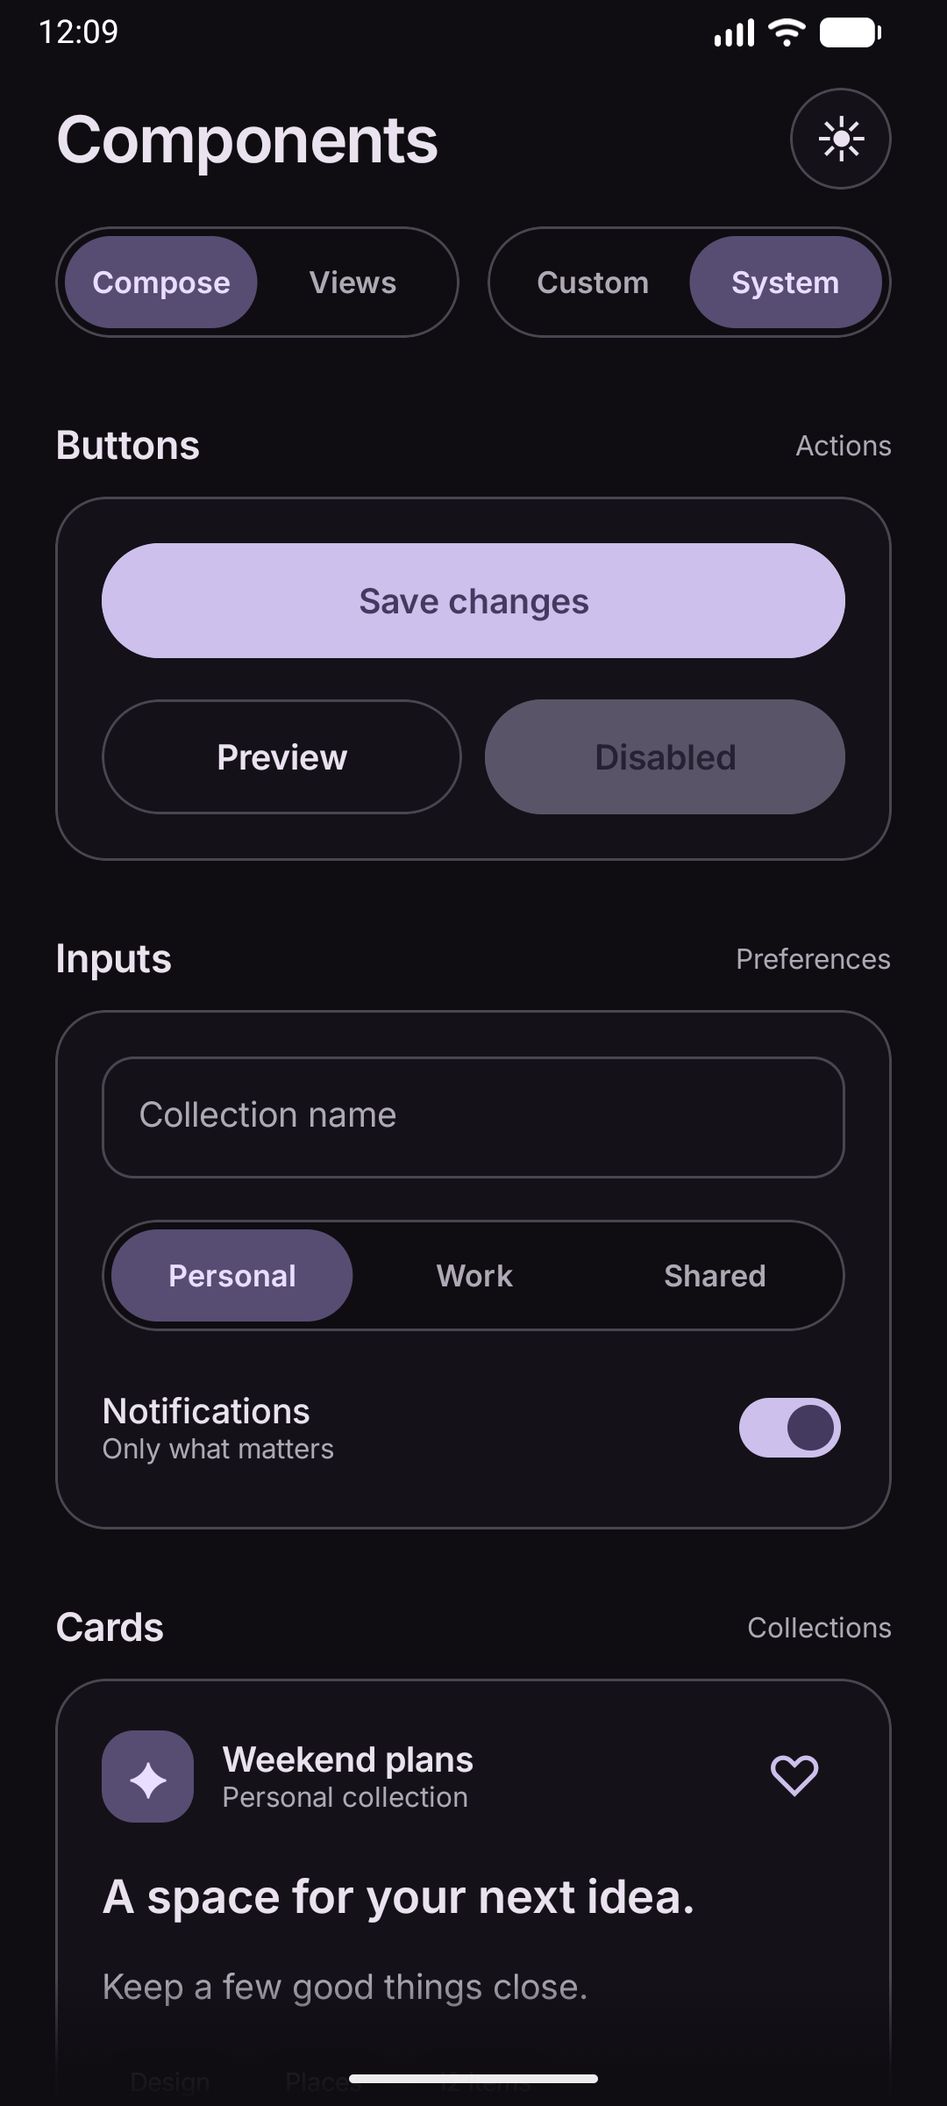
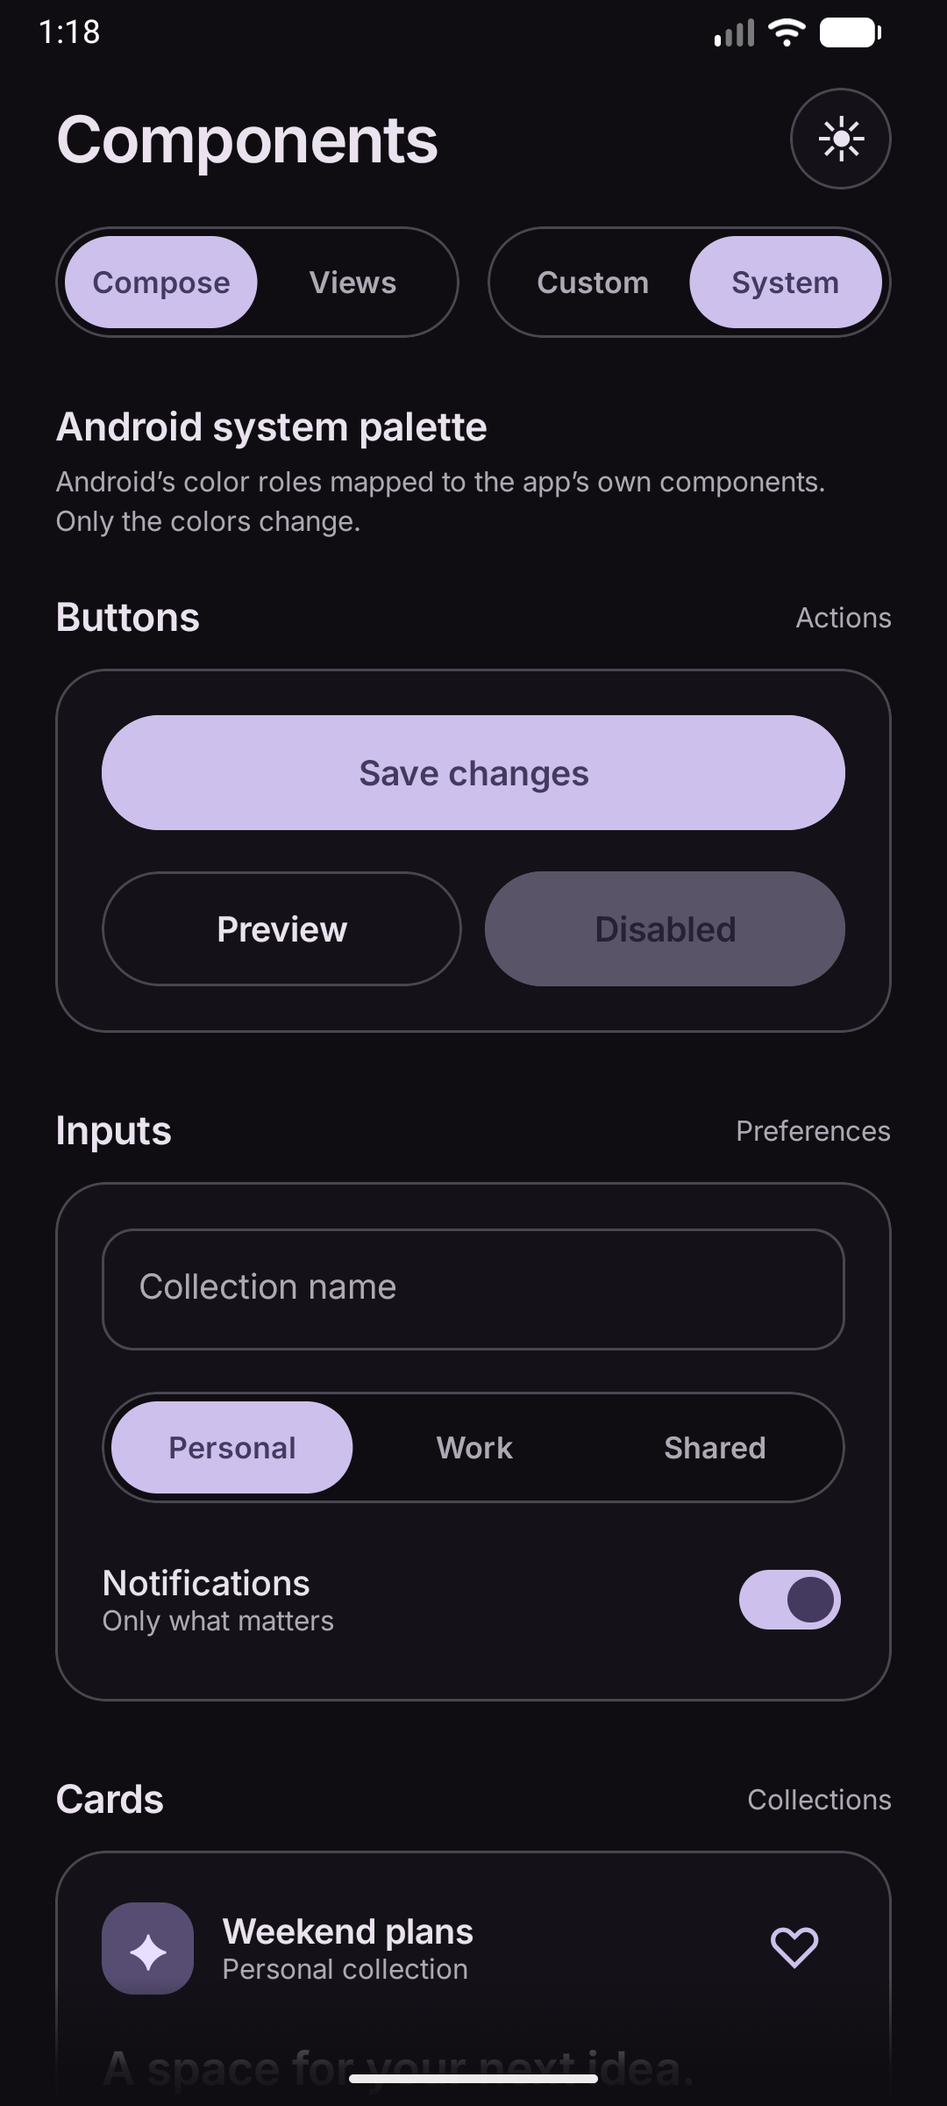
refactor(sample): refine the component showcase and documentation

diff --git a/sample/src/main/kotlin/io/github/lucf15/dynamiccolors/sample/views/NativeShowcase.kt b/sample/src/main/kotlin/io/github/lucf15/dynamiccolors/sample/views/NativeShowcase.kt
@@ -4,7 +4,6 @@
  */
 package io.github.lucf15.dynamiccolors.sample.views
 
-import android.animation.ArgbEvaluator
 import android.animation.ValueAnimator
 import android.app.Dialog
 import android.content.Context
@@ -18,6 +17,7 @@ import io.github.lucf15.dynamiccolors.sample.model.ShowcaseState
 import io.github.lucf15.dynamiccolors.sample.theme.AppColors
 import io.github.lucf15.dynamiccolors.sample.theme.DarkDefaults
 import io.github.lucf15.dynamiccolors.sample.theme.LightDefaults
+import io.github.lucf15.dynamiccolors.sample.theme.interpolate
 import io.github.lucf15.dynamiccolors.sample.theme.toAppColors
 import io.github.lucf15.dynamiccolors.sample.views.components.StudioButtonView
 import io.github.lucf15.dynamiccolors.sample.views.components.StudioCardView
@@ -120,31 +120,13 @@ internal class NativeShowcase(context: Context) : LinearLayout(context) {
             return
         }
         val start = colors
-        val evaluator = ArgbEvaluator()
         paletteAnimation =
             ValueAnimator.ofFloat(0f, 1f).apply {
                 duration = 260
                 interpolator = PathInterpolator(0.4f, 0f, 0.2f, 1f)
                 addUpdateListener {
                     val fraction = it.animatedValue as Float
-                    fun color(a: Int, b: Int) = evaluator.evaluate(fraction, a, b) as Int
-                    applyColors(
-                        AppColors(
-                            color(start.background, next.background),
-                            color(start.surface, next.surface),
-                            color(start.text, next.text),
-                            color(start.muted, next.muted),
-                            color(start.accent, next.accent),
-                            color(start.onAccent, next.onAccent),
-                            color(start.outline, next.outline),
-                            color(start.accentSurface, next.accentSurface),
-                            color(start.onAccentSurface, next.onAccentSurface),
-                            color(start.secondary, next.secondary),
-                            color(start.error, next.error),
-                            color(start.errorSurface, next.errorSurface),
-                            color(start.onErrorSurface, next.onErrorSurface),
-                        ),
-                    )
+                    applyColors(start.interpolate(next, fraction))
                 }
                 start()
             }

diff --git a/sample/src/main/kotlin/io/github/lucf15/dynamiccolors/sample/compose/StudioContent.kt b/sample/src/main/kotlin/io/github/lucf15/dynamiccolors/sample/compose/StudioContent.kt
@@ -36,6 +36,9 @@ import androidx.compose.ui.graphics.Brush
 import androidx.compose.ui.graphics.Color
 import androidx.compose.ui.layout.onSizeChanged
 import androidx.compose.ui.platform.LocalDensity
+import androidx.compose.ui.platform.LocalFocusManager
+import androidx.compose.ui.platform.LocalSoftwareKeyboardController
+import androidx.compose.ui.platform.LocalView
 import androidx.compose.ui.unit.dp
 import androidx.compose.ui.viewinterop.AndroidView
 import io.github.lucf15.dynamiccolors.PaletteFamily
@@ -63,6 +66,9 @@ internal fun StudioContent(
     onSystemChange: (Boolean) -> Unit,
     onFrameworkChange: (Int) -> Unit,
 ) {
+    val focusManager = LocalFocusManager.current
+    val hostView = LocalView.current
+    val keyboard = LocalSoftwareKeyboardController.current
     val scheme = DynamicColorsTheme.colorScheme
     val target = remember(scheme) { scheme.toStudioColors() }
     val palette = rememberDynamicPaletteOrNull(darkTheme = dark)
@@ -98,6 +104,9 @@ internal fun StudioContent(
                 verticalArrangement = Arrangement.spacedBy(16.dp),
                 contentPadding = rememberGalleryPadding(headerInset),
             ) {
+                item(key = "color-source") {
+                    ColorSourceNote(useSystem, isDynamicColorAvailable())
+                }
                 item(key = "gallery") {
                     // One stable list item gives both renderers the same scroll coordinates.
                     if (framework == 0) ComposeGallery(state, onStateChange)
@@ -129,8 +138,15 @@ internal fun StudioContent(
                 topInset,
                 onDarkChange,
                 onSystemChange,
-                onFrameworkChange,
-                Modifier.align(Alignment.TopCenter).onSizeChanged { headerHeight = it.height },
+                onFrameworkChange = {
+                    // Clear focus before removing the native field from the lazy list.
+                    focusManager.clearFocus(force = true)
+                    hostView.findFocus()?.clearFocus()
+                    keyboard?.hide()
+                    onFrameworkChange(it)
+                },
+                modifier =
+                    Modifier.align(Alignment.TopCenter).onSizeChanged { headerHeight = it.height },
             )
             Box(
                 Modifier.align(Alignment.BottomCenter)

diff --git a/sample/src/main/kotlin/io/github/lucf15/dynamiccolors/sample/compose/ShowcaseHeader.kt b/sample/src/main/kotlin/io/github/lucf15/dynamiccolors/sample/compose/ShowcaseHeader.kt
@@ -21,6 +21,7 @@ import androidx.compose.ui.Modifier
 import androidx.compose.ui.draw.clip
 import androidx.compose.ui.graphics.Brush
 import androidx.compose.ui.graphics.Color
+import androidx.compose.ui.platform.LocalDensity
 import androidx.compose.ui.semantics.contentDescription
 import androidx.compose.ui.semantics.semantics
 import androidx.compose.ui.text.font.FontWeight
@@ -83,19 +84,30 @@ internal fun ShowcaseHeader(
                     Label(if (dark) "☀" else "☾", size = 22)
                 }
             }
-            Row(horizontalArrangement = Arrangement.spacedBy(12.dp)) {
-                Segments(
-                    listOf("Compose", "Views"),
-                    framework,
-                    { onFrameworkChange(it) },
-                    Modifier.weight(1f),
-                )
-                Segments(
-                    listOf("Custom", "System"),
-                    if (useSystem) 1 else 0,
-                    { onSystemChange(it == 1) },
-                    Modifier.weight(1f),
-                )
+            if (LocalDensity.current.fontScale > 1.15f) {
+                Column(verticalArrangement = Arrangement.spacedBy(8.dp)) {
+                    Segments(listOf("Compose", "Views"), framework, onFrameworkChange)
+                    Segments(
+                        listOf("Custom", "System"),
+                        if (useSystem) 1 else 0,
+                        { onSystemChange(it == 1) },
+                    )
+                }
+            } else {
+                Row(horizontalArrangement = Arrangement.spacedBy(12.dp)) {
+                    Segments(
+                        listOf("Compose", "Views"),
+                        framework,
+                        onFrameworkChange,
+                        Modifier.weight(1f),
+                    )
+                    Segments(
+                        listOf("Custom", "System"),
+                        if (useSystem) 1 else 0,
+                        { onSystemChange(it == 1) },
+                        Modifier.weight(1f),
+                    )
+                }
             }
             if (useSystem && !systemAvailable)
                 Label(

diff --git a/sample/src/main/kotlin/io/github/lucf15/dynamiccolors/sample/theme/ColorInterpolation.kt b/sample/src/main/kotlin/io/github/lucf15/dynamiccolors/sample/theme/ColorInterpolation.kt
@@ -1,0 +1,24 @@
+/*
+ * Copyright 2026 lucf15
+ * SPDX-License-Identifier: Apache-2.0
+ */
+package io.github.lucf15.dynamiccolors.sample.theme
+
+import androidx.core.graphics.ColorUtils
+
+internal fun AppColors.interpolate(other: AppColors, fraction: Float) =
+    AppColors(
+        background = ColorUtils.blendARGB(background, other.background, fraction),
+        surface = ColorUtils.blendARGB(surface, other.surface, fraction),
+        text = ColorUtils.blendARGB(text, other.text, fraction),
+        muted = ColorUtils.blendARGB(muted, other.muted, fraction),
+        accent = ColorUtils.blendARGB(accent, other.accent, fraction),
+        onAccent = ColorUtils.blendARGB(onAccent, other.onAccent, fraction),
+        outline = ColorUtils.blendARGB(outline, other.outline, fraction),
+        accentSurface = ColorUtils.blendARGB(accentSurface, other.accentSurface, fraction),
+        onAccentSurface = ColorUtils.blendARGB(onAccentSurface, other.onAccentSurface, fraction),
+        secondary = ColorUtils.blendARGB(secondary, other.secondary, fraction),
+        error = ColorUtils.blendARGB(error, other.error, fraction),
+        errorSurface = ColorUtils.blendARGB(errorSurface, other.errorSurface, fraction),
+        onErrorSurface = ColorUtils.blendARGB(onErrorSurface, other.onErrorSurface, fraction),
+    )

diff --git a/sample/src/main/kotlin/io/github/lucf15/dynamiccolors/sample/compose/ColorSourceNote.kt b/sample/src/main/kotlin/io/github/lucf15/dynamiccolors/sample/compose/ColorSourceNote.kt
@@ -1,0 +1,33 @@
+/*
+ * Copyright 2026 lucf15
+ * SPDX-License-Identifier: Apache-2.0
+ */
+package io.github.lucf15.dynamiccolors.sample.compose
+
+import androidx.compose.foundation.layout.Arrangement
+import androidx.compose.foundation.layout.Column
+import androidx.compose.runtime.Composable
+import androidx.compose.ui.text.font.FontWeight
+import androidx.compose.ui.unit.dp
+import io.github.lucf15.dynamiccolors.sample.compose.components.Label
+import io.github.lucf15.dynamiccolors.sample.compose.components.LocalStudioColors
+
+@Composable
+internal fun ColorSourceNote(useSystem: Boolean, available: Boolean) {
+    val system = useSystem && available
+    Column(verticalArrangement = Arrangement.spacedBy(6.dp)) {
+        Label(
+            if (system) "Android system palette" else "Custom palette",
+            size = 17,
+            weight = FontWeight.SemiBold,
+        )
+        Label(
+            if (system)
+                "Android’s color roles mapped to the app’s own components. Only the colors change."
+            else
+                "App-defined colors for light and dark mode. Switch to System to use the device palette.",
+            size = 12,
+            color = LocalStudioColors.current.muted,
+        )
+    }
+}

diff --git a/sample/src/main/kotlin/io/github/lucf15/dynamiccolors/sample/views/components/StudioRow.kt b/sample/src/main/kotlin/io/github/lucf15/dynamiccolors/sample/views/components/StudioRow.kt
@@ -9,10 +9,13 @@ import android.view.Gravity
 import android.widget.LinearLayout
 import kotlin.math.roundToInt
 
-internal class StudioRow(context: Context) : LinearLayout(context) {
+internal class StudioRow(
+    context: Context,
+    private val verticalGravity: Int = Gravity.CENTER_VERTICAL,
+) : LinearLayout(context) {
     init {
         orientation = HORIZONTAL
-        gravity = Gravity.CENTER_VERTICAL
+        gravity = verticalGravity
         isBaselineAligned = false
     }
 
@@ -61,6 +64,9 @@ internal class StudioRow(context: Context) : LinearLayout(context) {
         super.onLayout(changed, left, top, right, bottom)
         for (index in 0 until childCount) {
             val child = getChildAt(index)
+            val childGravity =
+                (child.layoutParams as LayoutParams).gravity.takeIf { it >= 0 } ?: verticalGravity
+            if (childGravity and Gravity.VERTICAL_GRAVITY_MASK != Gravity.CENTER_VERTICAL) continue
             val free = height - paddingTop - paddingBottom - child.height
             child.offsetTopAndBottom(paddingTop + (free / 2f).roundToInt() - child.top)
         }

diff --git a/sample/src/main/kotlin/io/github/lucf15/dynamiccolors/sample/compose/components/StudioSegments.kt b/sample/src/main/kotlin/io/github/lucf15/dynamiccolors/sample/compose/components/StudioSegments.kt
@@ -58,7 +58,7 @@ internal fun Segments(
         Canvas(Modifier.matchParentSize()) {
             val width = size.width / labels.size
             drawRoundRect(
-                c.accentSurface,
+                c.accent,
                 Offset(width * position, 0f),
                 Size(width, size.height),
                 CornerRadius(size.height / 2),
@@ -83,7 +83,7 @@ internal fun Segments(
                     Label(
                         label,
                         size = 13,
-                        color = (if (index == selected) c.onAccentSurface else c.muted),
+                        color = (if (index == selected) c.onAccent else c.muted),
                         weight = FontWeight.SemiBold,
                     )
                 }

diff --git a/sample/src/main/kotlin/io/github/lucf15/dynamiccolors/sample/views/components/StudioSegmentsView.kt b/sample/src/main/kotlin/io/github/lucf15/dynamiccolors/sample/views/components/StudioSegmentsView.kt
@@ -84,10 +84,10 @@ internal class StudioSegmentsView(
         val changed = selected != index
         selected = index
         background = context.studioShape(c.background, c.outline, 24)
-        indicator.background = context.studioShape(c.accentSurface, radius = 20)
+        indicator.background = context.studioShape(c.accent, radius = 20)
         labels.forEachIndexed { i, view ->
             cells[i].isSelected = i == index
-            view.setTextColor(if (i == index) c.onAccentSurface else c.muted)
+            view.setTextColor(if (i == index) c.onAccent else c.muted)
         }
         if (changed && isLaidOut)
             NativeMotion.spring(

diff --git a/sample/src/main/kotlin/io/github/lucf15/dynamiccolors/sample/views/components/StudioTextView.kt b/sample/src/main/kotlin/io/github/lucf15/dynamiccolors/sample/views/components/StudioTextView.kt
@@ -21,6 +21,7 @@ internal open class StudioTextView(
     init {
         text = value
         textSize = size.toFloat()
+        if (size >= 28) letterSpacing = -0.6f / size
         typeface = androidx.core.content.res.ResourcesCompat.getFont(context, R.font.inter)
         if (Build.VERSION.SDK_INT >= 26) fontVariationSettings = "'wght' $weight"
         else if (weight >= 600) setTypeface(typeface, Typeface.BOLD)

diff --git a/sample/README.md b/sample/README.md
@@ -13,7 +13,7 @@ A component gallery and system palette explorer with Compose and custom Android 
 
 The Custom palette is defined by the sample. System examples use three emulator seeds with Tonal Spot; the library reads the resulting Android colors.
 
-The header switches between **Compose / Views** and **Custom / System** colors. The sun/moon button previews either theme. The full-window list scrolls beneath soft top and bottom fades. IME insets add bottom **content padding** to the list, rather than padding the root or shrinking the viewport. Together with `adjustNothing`, this leaves actual content behind translucent keyboards while providing enough scroll range to move items above them. The bottom fade stays at the screen edge.
+The header switches between **Compose / Views** and **Custom / System** colors. A short source description explains which palette is active. With enlarged text, the two controls stack vertically. The sun/moon button previews either theme. The full-window list scrolls beneath soft top and bottom fades. IME insets add bottom **content padding** to the list, rather than padding the root or shrinking the viewport. Together with `adjustNothing`, this leaves actual content behind translucent keyboards while providing enough scroll range to move items above them. The bottom fade stays at the screen edge.
 
 Below the components, **System palette** shows all 13 tones in each available family: Accent 1–3, Neutral 1–2, and Error on API 35+. Swatches show tone and hex values; tapping copies the Android resource name and full ARGB value. The explorer always reads system resources, independently of the Custom / System theme switch, and follows the selected light/dark mode. On API < 31 it explains that no system palette is available. Each ramp is a separate lazy-list item with Compose and native View renderers.
 
@@ -30,9 +30,24 @@ The source is organized by responsibility:
 
 Compose sections receive only their own values and callbacks. Gallery callbacks keep their identity while reading the latest shared state. The compiler reports mark the header, sections, and controls as restartable and skippable; this is a structural check, not a frame-time benchmark. Generate the reports with `./gradlew :sample:compileDebugKotlin -PcomposeReports` and inspect `sample/build/compose-reports/`.
 
-The Compose renderer uses `DynamicColorsTheme.colorScheme`; its component palette and animations retain native `Color` values. The palette explorer uses `rememberDynamicPaletteOrNull(darkTheme)` without constructing its own configuration contexts. The Views renderer uses `observeDynamicColorRoles(darkTheme)` only while attached and system colors are selected; it closes the subscription on detach/disposal and recreates it when mode changes. Text centering and weighted rows use the same pixel-rounding rules as Compose, including fractional display densities.
+The Compose renderer uses `DynamicColorsTheme.colorScheme`; its component palette and animations retain native `Color` values. The palette explorer uses `rememberDynamicPaletteOrNull(darkTheme)` without constructing its own configuration contexts. The Views renderer uses `observeDynamicColorRoles(darkTheme)` only while attached and system colors are selected; it closes the subscription on detach/disposal and recreates it when mode changes. Switching renderers clears focus before removing the outgoing native field, avoiding focus traversal during lazy-list composition. Text centering and weighted rows use the same pixel-rounding rules as Compose, including fractional display densities.
 
 Run the `sample` configuration. The app has no Material 3 dependency. Android Studio light/dark previews are included. Inter is distributed under the SIL Open Font License: [INTER-LICENSE.txt](INTER-LICENSE.txt), also bundled in the APK assets.
+
+## Where the colors go
+
+The sample maps Android roles to its own tokens in `theme/AppColors.kt` and `theme/ComposeColors.kt`:
+
+| Android role | App token | Used for |
+| --- | --- | --- |
+| `primary` / `onPrimary` | `accent` / `onAccent` | Filled buttons, selected segments |
+| `primaryContainer` / `onPrimaryContainer` | `accentSurface` / `onAccentSurface` | Subtle accent backgrounds and their content |
+| `surfaceContainerLow` | `surface` | Cards |
+| `onSurface` / `onSurfaceVariant` | `text` / `muted` | Main and supporting text |
+| `outlineVariant` | `outline` | Borders |
+| `errorContainer` / `onErrorContainer` | `errorSurface` / `onErrorSurface` | Error feedback |
+
+Custom mode supplies app-defined values to those same tokens. The components do not change.
 
 ## XML Data Binding example
 

diff --git a/README.md b/README.md
@@ -25,6 +25,8 @@ Read a single accent, theme an entire screen, or explore every available tone. Y
 
 **The same components, with a palette that follows the device.**
 
+Switch **Custom / System** to change where the colors come from. Custom uses the app’s own blue palette; System maps Android’s roles into the same components. The shapes, typography and interactions stay yours.
+
 | System violet · light | System violet · dark |
 | :---: | :---: |
 | <img src="docs/images/components-violet-light.png" width="280" alt="Component showcase with violet system colors in light mode"> | <img src="docs/images/components-violet-dark.png" width="280" alt="The same components with violet system colors in dark mode"> |
@@ -39,6 +41,15 @@ Read a single accent, theme an entire screen, or explore every available tone. Y
 | System · terracotta | <img src="docs/images/components-terracotta-light.png" width="260" alt="Terracotta system palette in light mode"> | <img src="docs/images/components-terracotta-dark.png" width="260" alt="Terracotta system palette in dark mode"> |
 
 The Custom palette belongs to the sample. System screenshots use emulator seeds `#6750A4`, `#006A6A`, and `#A35139` with Tonal Spot. The library reads the resulting Android resources; it does not generate palettes from seeds.
+
+</details>
+
+<details>
+<summary><strong>Native Views</strong></summary>
+
+<img src="docs/images/components-views-light.png" width="280" alt="The same component showcase rendered with custom native Android Views">
+
+Both renderers share the editable state, layout and colors.
 
 </details>
 
@@ -484,9 +495,15 @@ On API 31+, each role in a returned set has a color value. Below API 31, the who
 
 ### Try it on your own wallpaper
 
-Open the project in Android Studio and run **sample**. Switch between **Compose / Views**, choose **Custom / System**, and toggle light/dark mode. Change the device’s system palette to see the same components take on a different set of colors.
+Open the project in Android Studio and run **sample**.
 
-The gallery includes buttons, text input, switches, cards, dialogs, and the full palette explorer. Both renderers use custom components. [Explore the sample source and structure →](sample/README.md)
+1. Choose **Custom** for the app’s blue palette or **System** for Android’s current colors.
+2. Try the buttons, dialog, collection field, notification switch and feedback states.
+3. Switch **Compose / Views**. The editable state stays intact, and both renderers use custom components.
+4. Toggle light/dark mode, or change the device palette while System is selected.
+5. Scroll to **System palette** and tap a tone to copy its resource name and ARGB value.
+
+The palette explorer always shows Android’s resources, even when the components use Custom colors. On Android versions before 12, the components use the custom fallback and the explorer explains that system tones are unavailable. [See the sample’s color mappings and source structure →](sample/README.md#where-the-colors-go)
 
 ## Development
 
